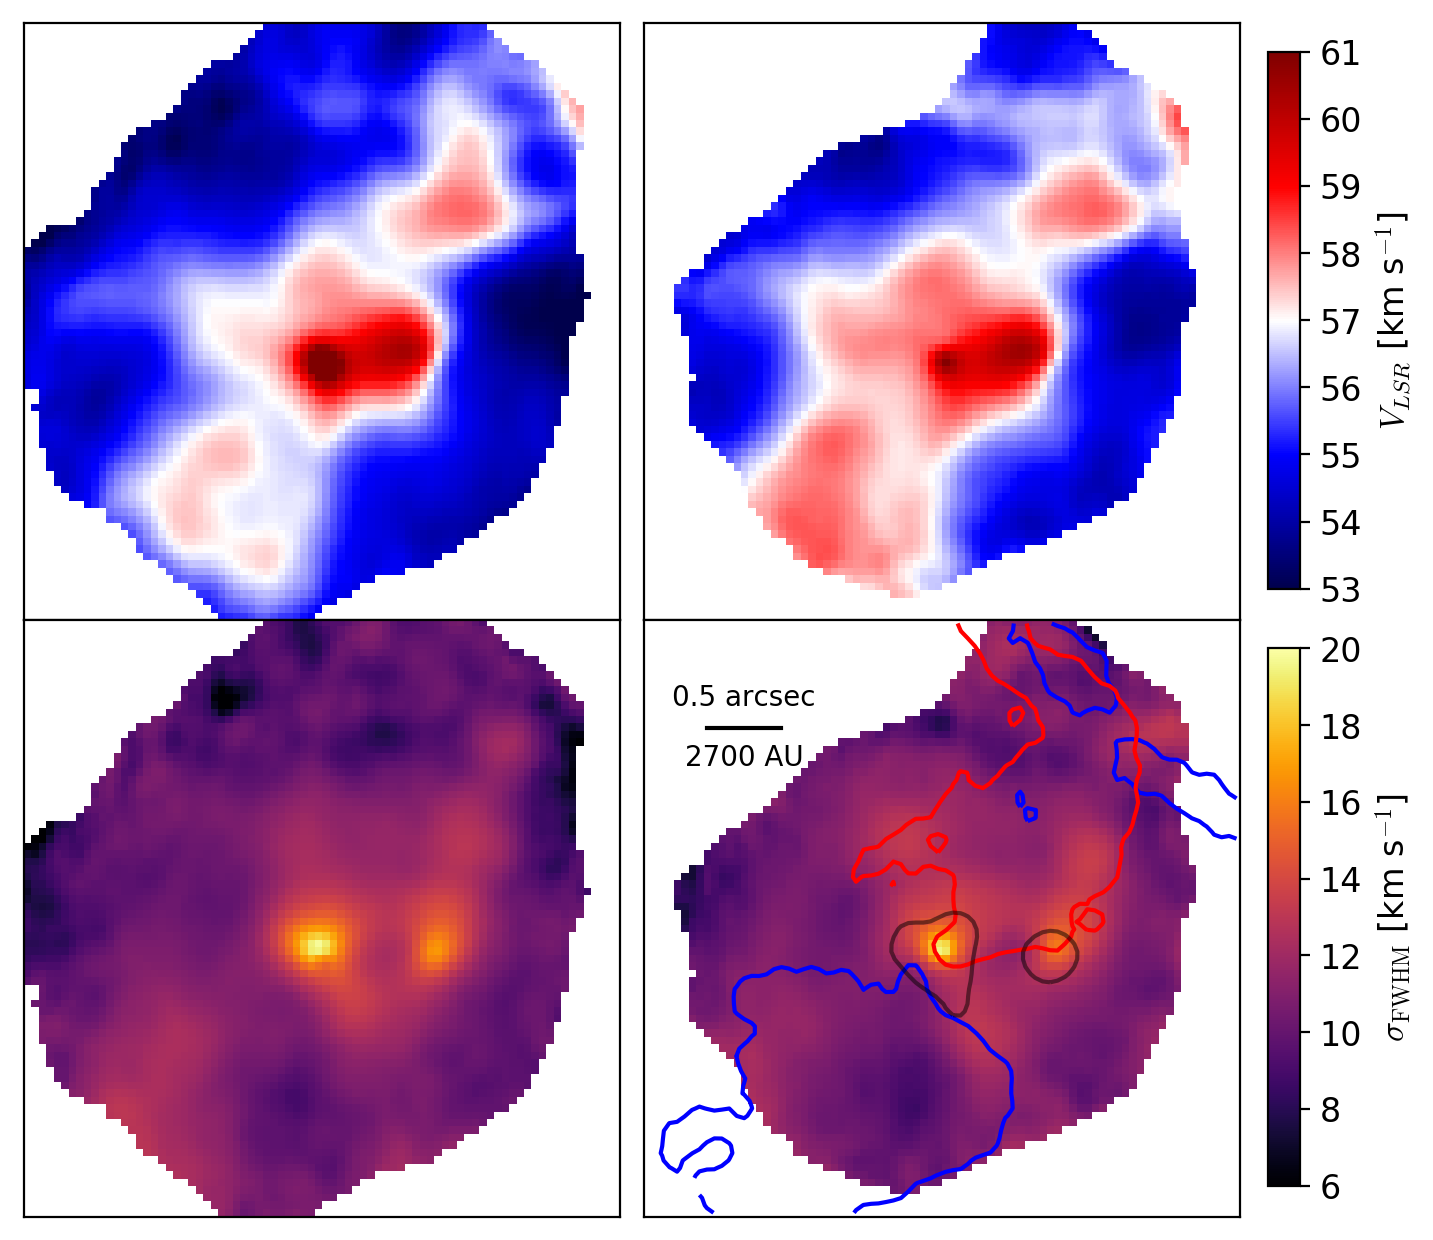
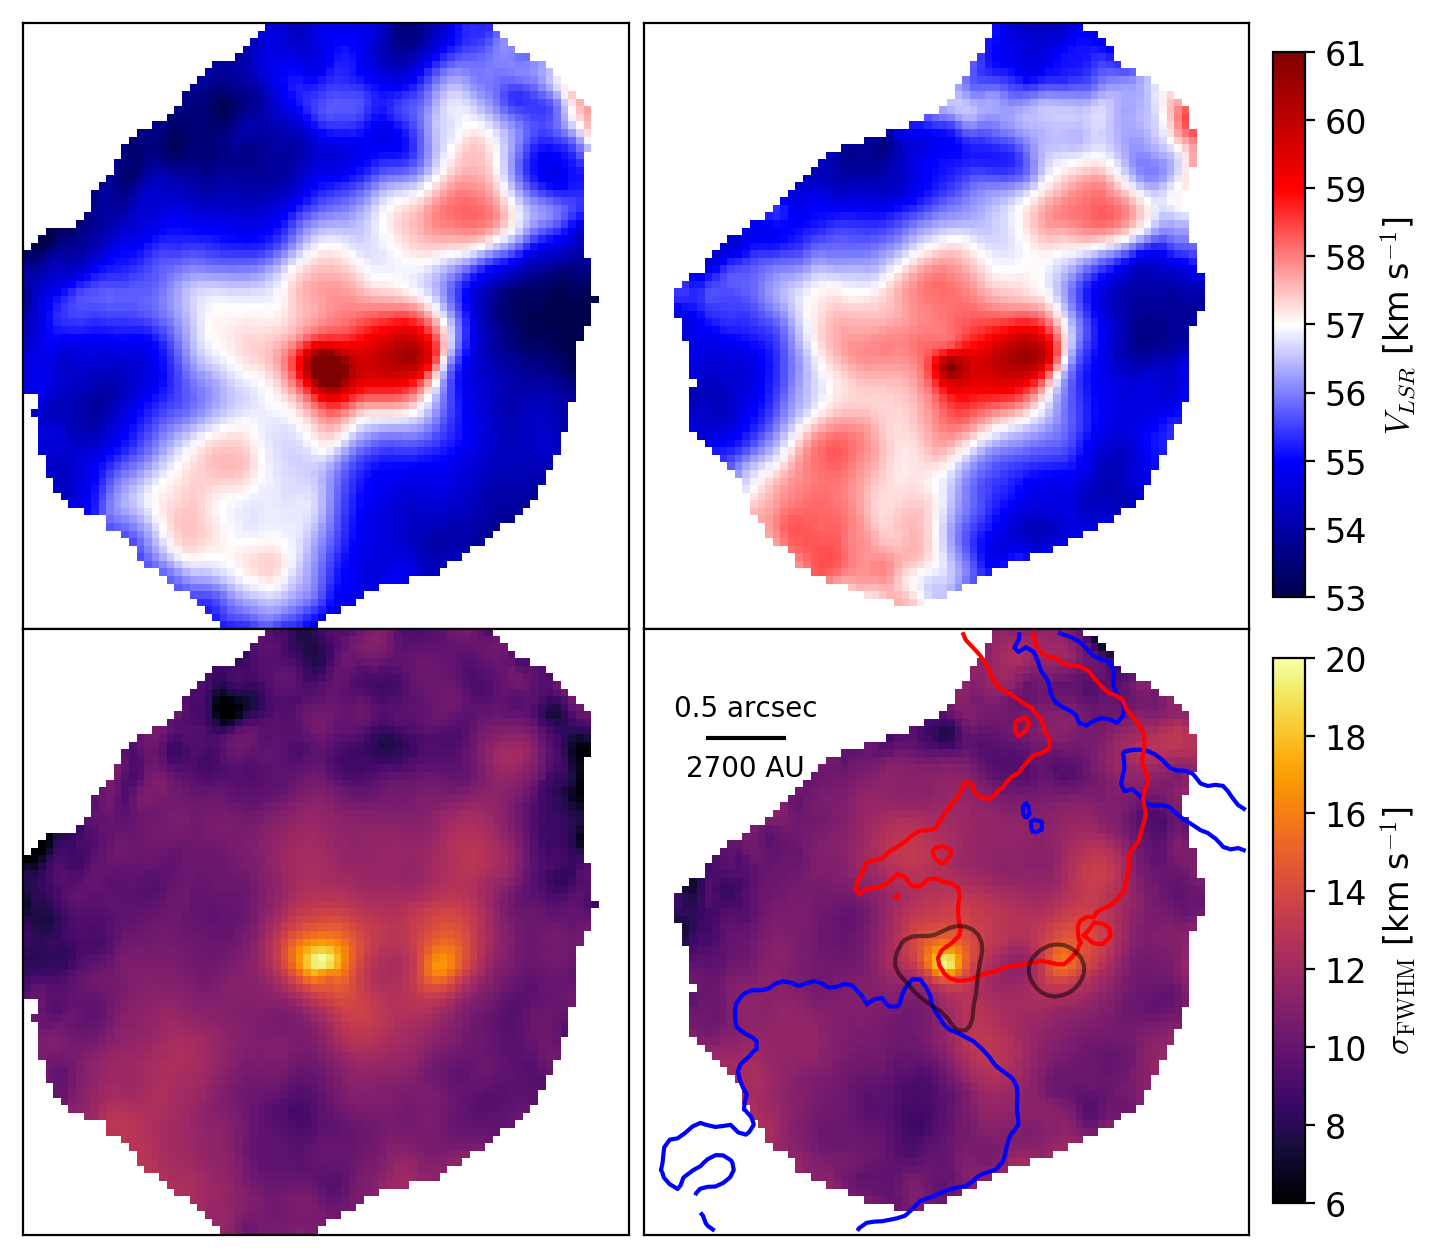
something about infall in the text now...

diff --git a/paper1/w51_alma_00308.tex b/paper1/w51_alma_00308.tex
@@ -1095,7 +1095,15 @@ the presence of an expanding bubble.
 The overall appearance of these cores suggests that many different gas flows,
 both in and out, are intersecting and interacting.  
 
-\subsection{Disks?}
+\subsubsection{Infall or inflow?}
+Previous authors have reported infall onto e2 \citep{Zhang1997a}, ??e8??, ??north??.
+% Zhang used NH3, resolution 2-3".  I
+However, these measurements were performed with 2-3 \arcsec resolution
+and the P Cygni profiles actually consist of a blend between absorption toward
+the centimeter-bright e2w \hii region and emission from the \emph{extended}
+e2e hot core.
+
+\subsubsection{Disks?}
 We find no direct evidence of disks in the gas kinematic data.  The presence of
 outflows (Section \ref{sec:outflows}) hints at the presence of accretion disks,
 but measurement of a Keplerian rotation curve is necessary to determine their
@@ -1580,16 +1588,11 @@ i.e., they show the Jeans mass if the medium
 were of uniform density and temperature at the spherical-shell-average density
 and azimuthal average temperature at each plotted radius.
 
-The mass figure shows that the gas is stable on a beam size scale ($\sim1000$ AU),
-while the length figure shows that on larger scales, the gas is unstable to
-fragmentation.  However, on these larger scales, the Jeans length is about
-the same as the hot core size, and the gas density and temperature structure is
-highly non-uniform, violating the key assumptions of the Jeans analysis.  
-A more sophisticated analysis of the fragmentation propensity of the gas
-in such a core structure would be worthwhile but is beyond the scope of
-this work.  We note more simply that, even if thermal fragmentation occurs, it
-is likely to be greatly reduced compared to models with feedback limited to
-shorter wavelengths (e.g., ionizing radiation) or with a lower total amplitude.
+The mass figure shows that the gas is stable on a beam size scale ($\sim1000$
+AU), while the length figure shows that on larger scales, the gas could be
+unstable to fragmentation.  On these larger scales, the Jeans length is about
+the same as the hot core size, so we should not observe fragmentation on
+the scale of individual beams.
 
 % \resolved{Interpretation
 % of these plots is not straightforward, though: if we assume the `core' is
@@ -1620,16 +1623,13 @@ shorter wavelengths (e.g., ionizing radiation) or with a lower total amplitude.
 % though, the implied accretion rate is $\sim0.1$ \msun \peryr.  
 
 
-Within this large reservoir, there are few currently-detected fragments,
-supporting the conclusions of the Jeans analysis.
-In our data, within 6500 AU of W51 North, there is only 1 (ALMAmm35), around
-e2e there is the HII region e2w and possibly 2-3 others between 5000 and 6500
-AU, and around e8 there are none.  Admittedly, our data are not very sensitive
-in the areas immediately surrounding these cores because of dynamic
-range limitations, and it is not obvious that we should detect cores on such
-a bright and high-column background.  Nonetheless, the lack of compact core
-detections around the most massive sources is consistent with the interpretation
-that fragmentation is suppressed.
+Within this large reservoir, there are few detected fragments.  In our data,
+within 6500 AU of W51 North, there is only 1 (ALMAmm35), around e2e there is
+the HII region e2w and possibly 2-3 others between 5000 and 6500 AU, and around
+e8 there are none.  Admittedly, our data are not very sensitive in the areas
+immediately surrounding these cores because of dynamic range limitations.
+Nonetheless, the lack of compact core detections around the most massive
+sources is consistent with the interpretation that fragmentation is suppressed.
 
 %this discussion doesn't really add anything.
 % Further fragmentation below our resolution limit of $\sim1000$ AU is possible
@@ -1667,32 +1667,29 @@ to sub-resolution noise.
 %The Jeans mass decreases
 %toward the center at least in part because of the density increase, while the
 %temperature only rises slowly.  
-In (b), the dashed black line shows the $R_J=R$ line.  When $R_J > R$, i.e.,
-for points falling above the black dashed line,
-the gas is on average stable against fragmentation on the measured length
-scale.  Since the medium is clearly \emph{not} isothermal or uniform density,
-though, this only shows a rough approximation of the stability.
+In (b), the horizontal dotted line shows the beam scale. Above this line,
+gas within a single beam is stable against Jeans fragmentation.
 }
 {fig:mjeans}{1}{8cm}
 
 
 
-Given the current structure of the observed cores and their (marginal)
-stability against fragmentation, it is unlikely that they could have existed at
-all without the presence of a central heating source.  Should these $>200$
-\msun cores have been present before high-mass star formation initiated,
-resting at $T\sim20$ K as in a typical molecular cloud, they would have been
-subject to Jeans fragmentation on a much smaller scale and would have formed a
-cluster of smaller stars (\citet{Longmore2011a} reached the same conclusion
-that high-mass cores cannot be formed with only low-mass stellar feedback as a
-heating source by examining an earlier-stage high-mass star-forming region).
-This prior instability implies that the mass currently in the core had to be
-assembled from larger scales while suppressing or slowing collapse on smaller
-scales, which is essentially the opposite of inside-out collapse
-\citep{Naranjo-Romero2015a}.  In turn, such a core assembly implies that
-aspects of both the `competitive accretion' and `core accretion' models may
-apply, with mass dumping onto a sink source from large physical scales, yet
-assembling a quasi-stable core.
+Given the current structure of the observed cores and their stability against
+fragmentation on small scales, but susceptibility to fragmentation on larger
+scales, it is unlikely that they could have existed at all without the presence
+of a central heating source.  Should these $>200$ \msun cores have been present
+before high-mass star formation initiated, resting at $T\sim20$ K as in a
+typical molecular cloud, they would have been subject to Jeans fragmentation on
+a much smaller scale and would have formed a cluster of smaller stars
+(\citet{Longmore2011a} reached the same conclusion that high-mass cores cannot
+be formed with only low-mass stellar feedback as a heating source by examining
+an earlier-stage high-mass star-forming region).  This prior instability
+implies that the mass currently in the core had to be assembled from larger
+scales while suppressing or slowing collapse on smaller scales, which is
+essentially the opposite of inside-out collapse \citep{Naranjo-Romero2015a}.
+In turn, such a core assembly implies that aspects of both the `competitive
+accretion' and `core accretion' models may apply, with mass dumping onto a sink
+source from large physical scales, yet assembling a quasi-stable core.
 
 The observed high gas temperature provides a mechanism for MYSOs to avoid the
 ``fragmentation-induced starvation'' problem discussed by
@@ -1701,6 +1698,15 @@ fragmentation in their surroundings, accreting massive stars are able to
 sustain their mass reservoir.  A forming massive star can effectively create
 its own core by cooking into one single serving the gas feast that would
 otherwise form a small cluster.
+
+\subsubsection{What about magnetic fields?}
+\citet{Tang2009a,Tang2013a} measured dust polarization to get the field
+direction.  \citet{Etoka2012a} used OH masers to measure the field strength,
+obtaining 2-7 mG.  \citet{Koch2012a} showed that even with this high field
+strength, the central core at $r<1\arcsec$ is magnetically supercritical, i.e.,
+dominated by self-gravity.  The presence of such strong magnetic fields
+throughout the hot cores may suppress fragmentation and slow down accretion,
+though we do not consider their dynamical effects further here.
 
 \subsection{Comparison to high-mass star formation theories}
 \label{sec:sftheories}

diff --git a/analysis/radial_profiles.py b/analysis/radial_profiles.py
@@ -371,8 +371,8 @@ def make_rprof(regions, ploteach=False):
         rr_as = (rr*bigpixscale).to(u.arcsec)
         theta = np.arctan2(yyc,xxc)*u.rad
 
-        dust_column = dust_emissivity.dust.colofsnu(225*u.GHz, dust_brightness*u.Jy,
-                                                    beamomega=contbm,
+        dust_column = dust_emissivity.dust.colofsnu(225*u.GHz, dust_brightness*u.Jy/contbm,
+                                                    #beamomega=contbm,
                                                     temperature=ch3ohT*u.K)
         ch3oh_abundance = ch3ohN / dust_column.value
         mask = (ch3oh_abundance > 1e-10) & (ch3oh_abundance < 1e-5)
@@ -543,6 +543,10 @@ def make_rprof(regions, ploteach=False):
         pl.plot([0,(7000*u.au/masscalc.distance).to(u.arcsec,
                                                     u.dimensionless_angles()).value],
                 [0,7000], 'k--', alpha=0.5)
+        pl.plot([beam.major.to(u.arcsec).value,
+                 (7000*u.au/masscalc.distance).to(u.arcsec,
+                                                  u.dimensionless_angles()).value],
+                [1000,1000], 'k:', alpha=0.5)
         if ii == 0:
             pl.fill_between([0, beam.major.to(u.arcsec).value], [8000,8000], zorder=-5, alpha=0.1, color='k')
         pl.ylabel("Azimuthally Averaged $R_J$\nat $T(\\mathrm{CH}_3\\mathrm{OH})$ [au]")

diff --git a/plot_code/methanol_kinematics_figures.py b/plot_code/methanol_kinematics_figures.py
@@ -29,6 +29,10 @@ cutout = {'e2wide': [slice(20,-20),slice(15,-25)],
           'e8wide': [slice(10,-20),slice(20,-20)],
           'northwide': [slice(58,120),slice(28,88)],
          }
+# tuned to ipython!?!?! figsize = {'e2wide': (8,8.09),
+# tuned to ipython!?!?!            'e8wide': (8,9.1),
+# tuned to ipython!?!?!            'northwide': (8,8.29),
+# tuned to ipython!?!?!           }
 figsize = {'e2wide': (8,7.75),
            'e8wide': (8,8.725),
            'northwide': (8,8),
